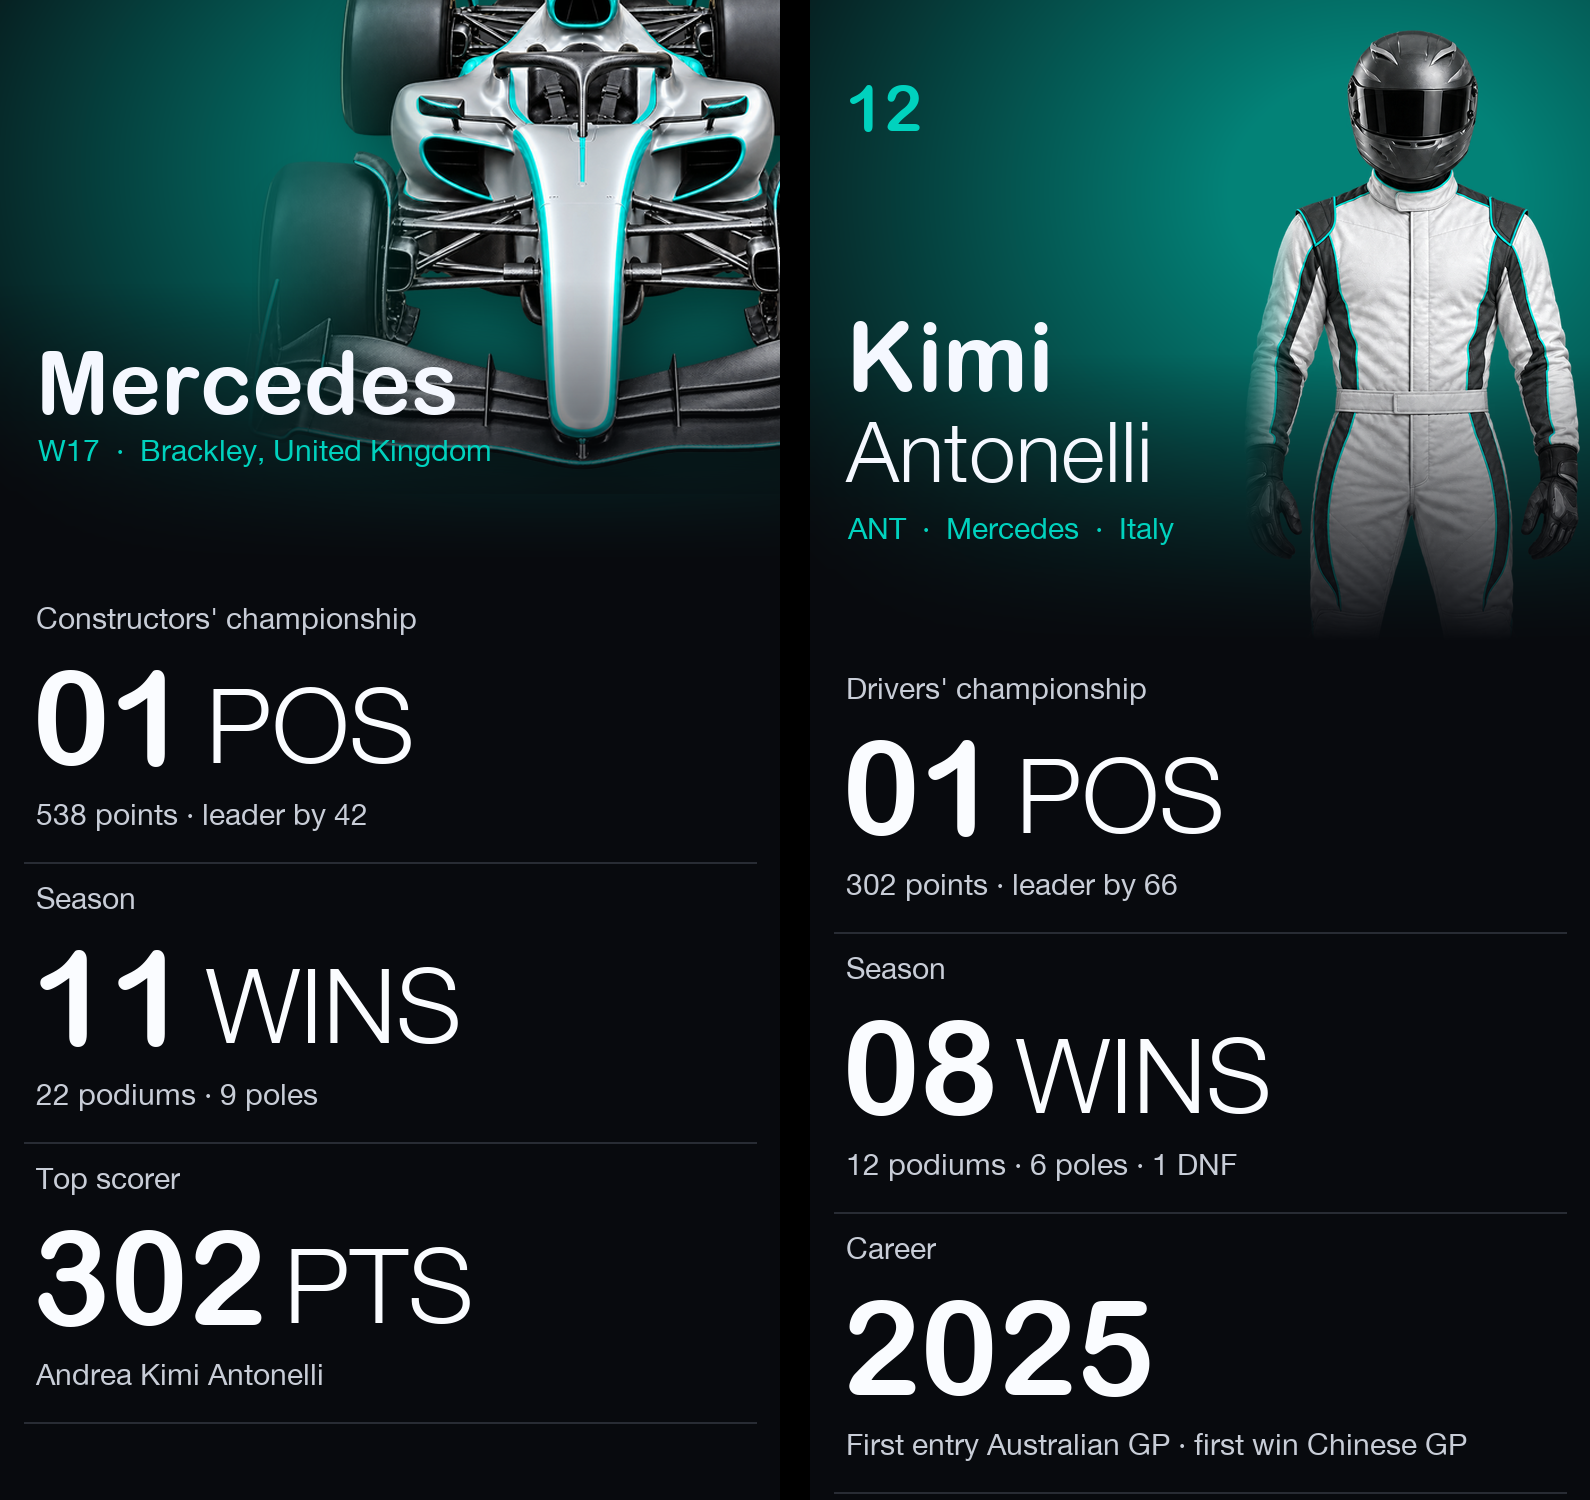
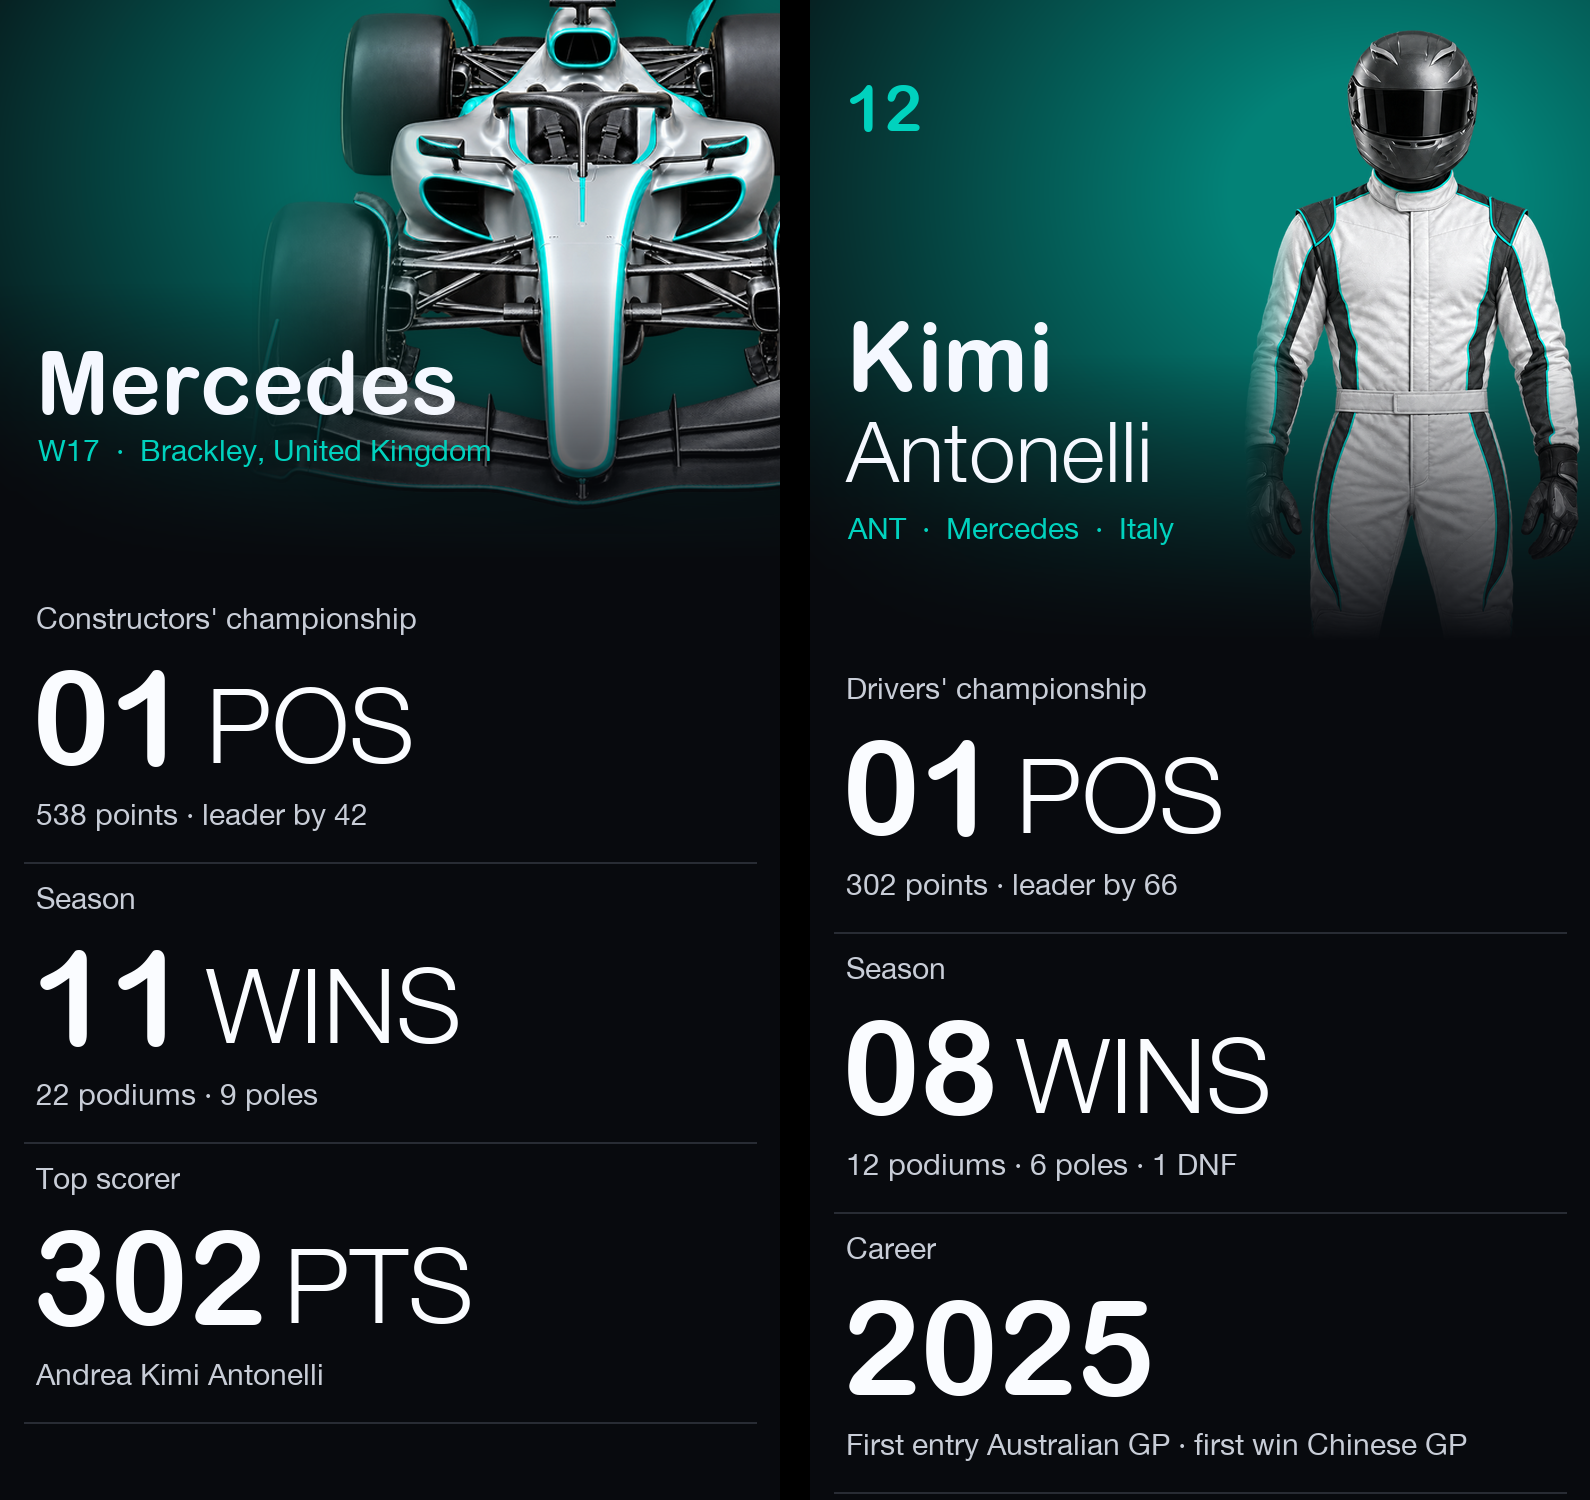
Team sheet mock: car a little lower

Changed region(s): [[0.1849, 0.0, 0.4931, 0.3373]]

diff --git a/scripts/design/mock_profile_sheets.py b/scripts/design/mock_profile_sheets.py
@@ -31,7 +31,7 @@ def team(out):
     car = car.resize((600, int(car.height*600/car.width)), Image.LANCZOS)
     # straight down from the top, on the right like the driver: the front half enters the sheet
     car = car.resize((680, int(car.height*680/car.width)), Image.LANCZOS)
-    x0, y0 = W - car.width + 142, -car.height + 470
+    x0, y0 = W - car.width + 142, -car.height + 510
     car = fade_left(car, 0.3)
     sh = Image.new('RGBA', car.size, (0,0,0,0)); sh.putalpha(car.getchannel('A').point(lambda a: int(a*0.5)))
     hdr.alpha_composite(sh.filter(ImageFilter.GaussianBlur(22)), (x0+10, y0+24))
